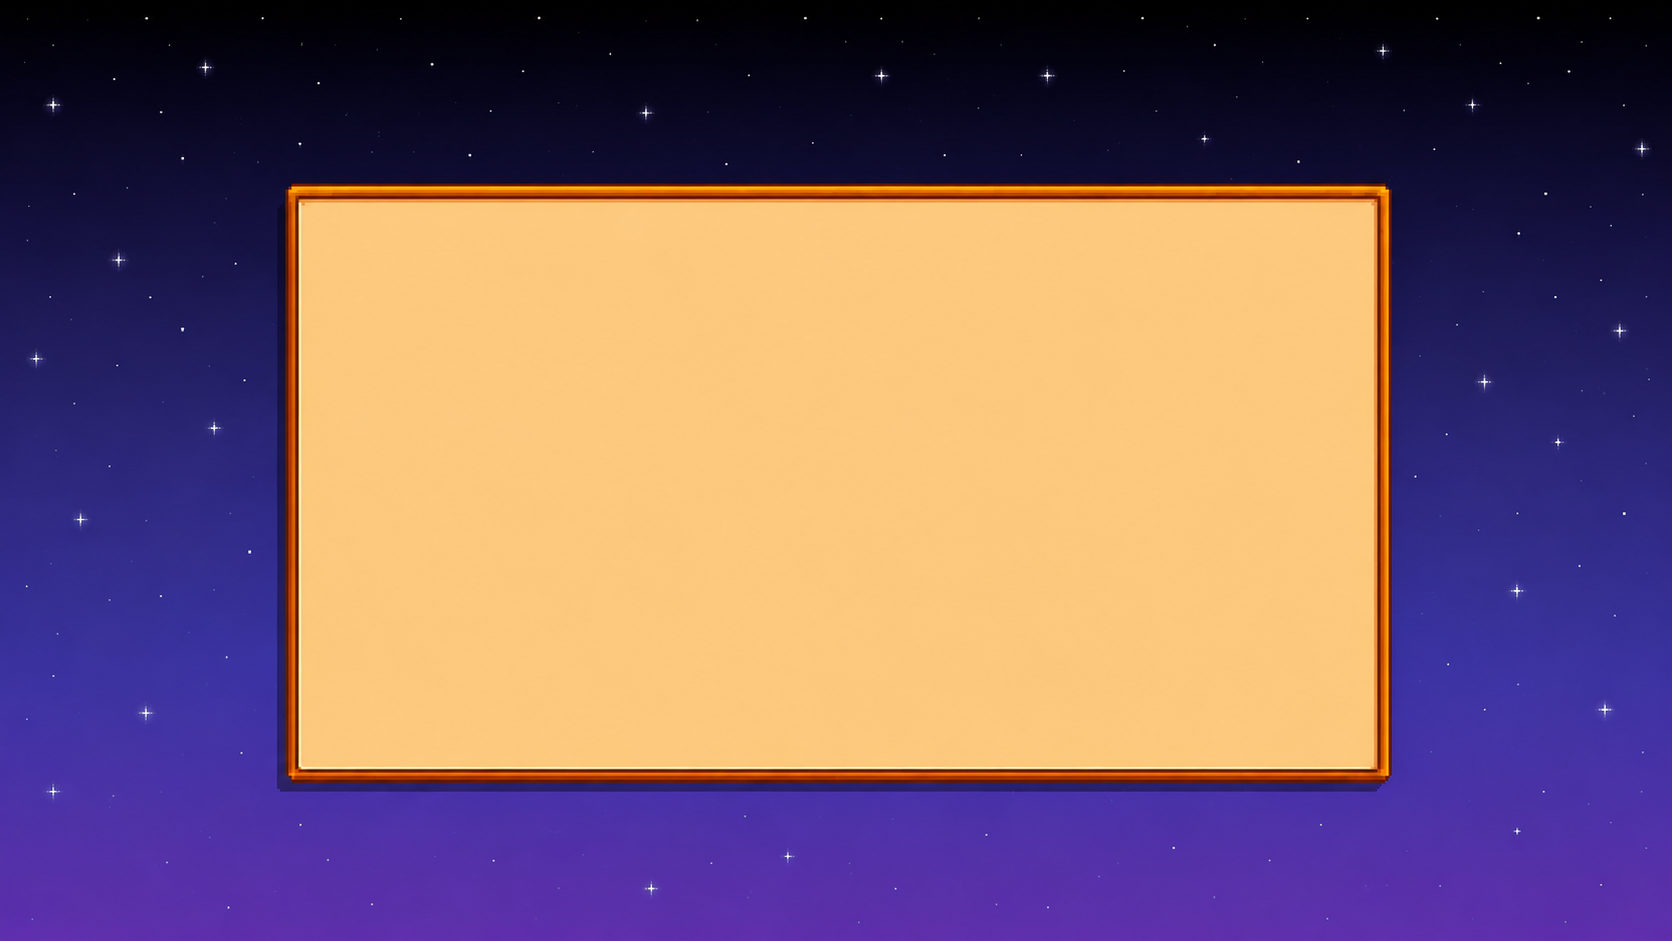
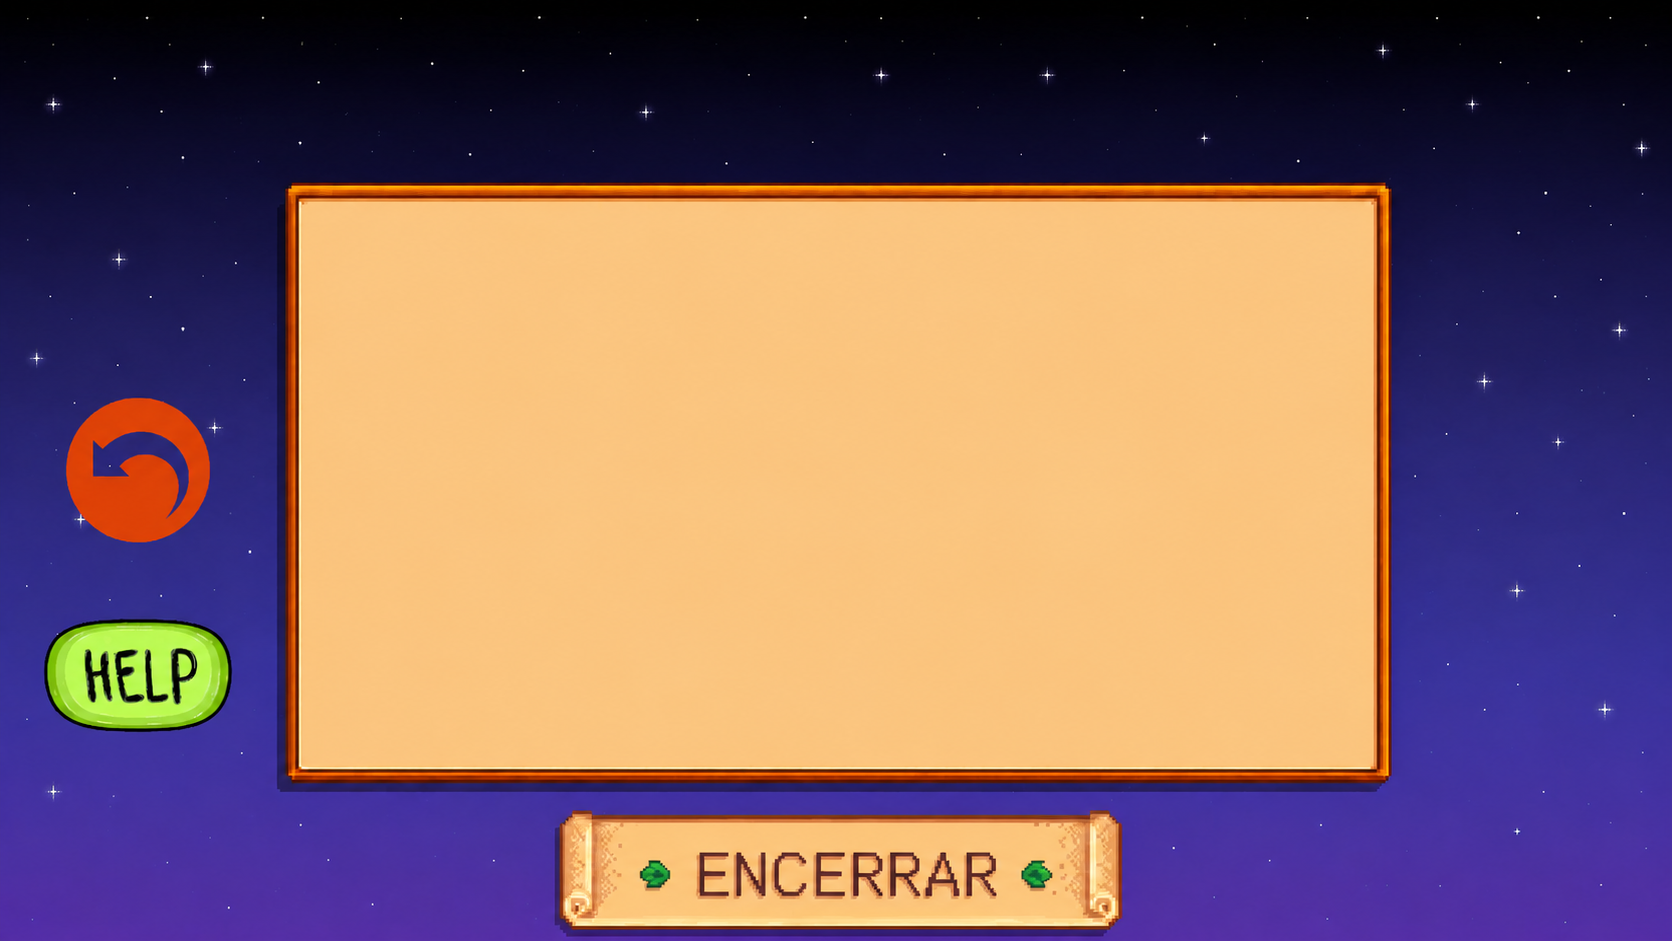
img fundo novo, hint e undo

diff --git a/jogo.c b/jogo.c
@@ -64,18 +64,5 @@ void desenharJogo(Texture2D *jogo, Texture2D gemas[GEM], Gema matriz[TAM][TAM], 
         DrawRectangleLinesEx((Rectangle){x2, y2, larguraGema, alturaGema}, 4, GOLD);
     }
 
-    Rectangle caixa = {450, 650, 300, 100};
-
-    DrawRectangleRec(caixa, DARKBLUE);          // Fundo
-    DrawRectangleLinesEx(caixa, 2, WHITE);      // Borda
-
-    int tamanhoFonte = 45;
-    char texto[] = "ENCERRAR";
-    DrawText(
-        texto,
-        caixa.x + (caixa.width - MeasureText(texto, tamanhoFonte)) / 2,
-        caixa.y + (caixa.height - tamanhoFonte) / 2,
-        tamanhoFonte,
-        WHITE
-    );
+    Rectangle caixa = {430, 625, 400, 85};
 }
